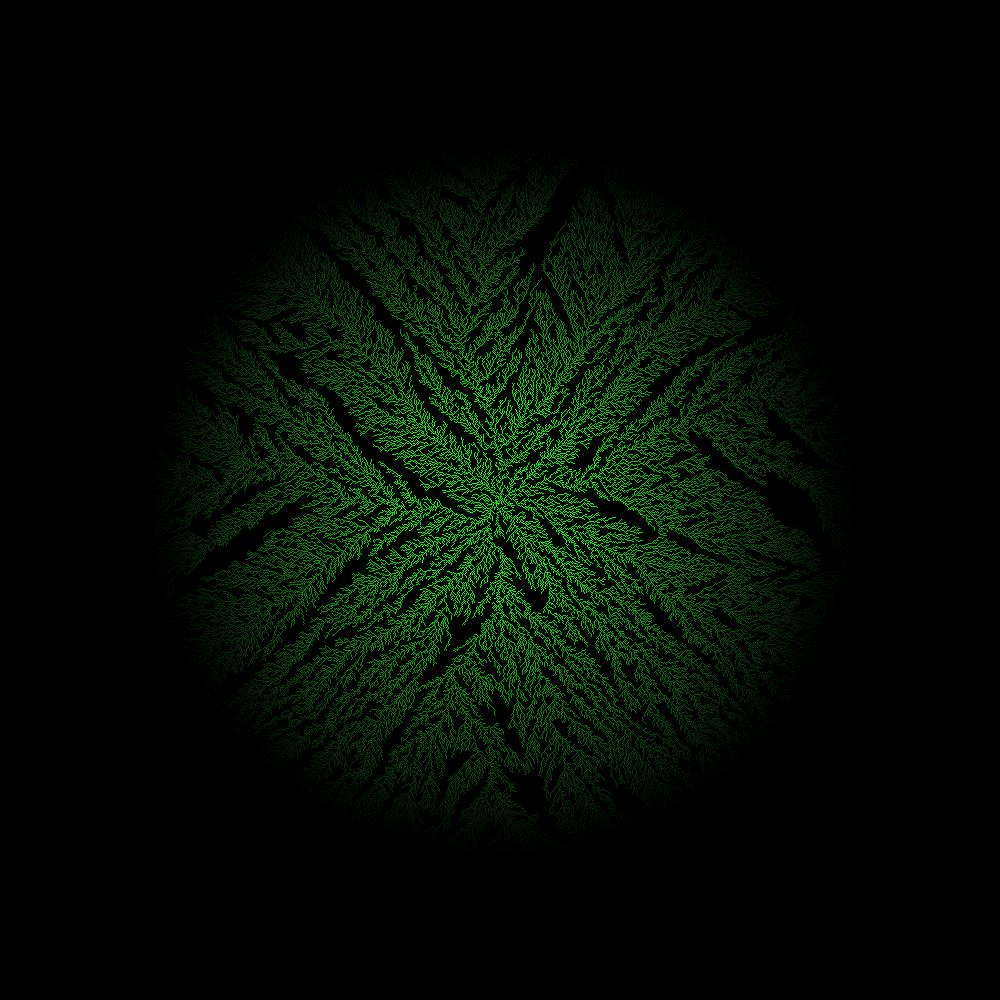
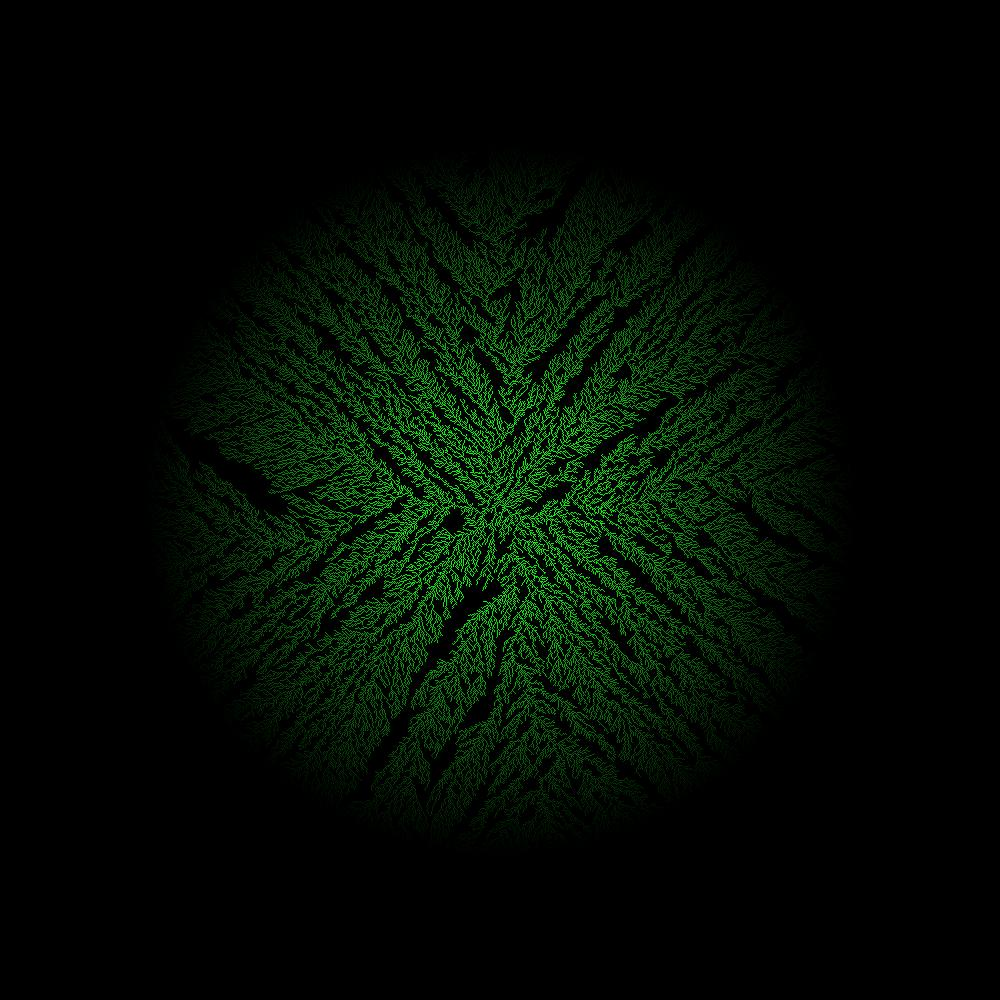
Mon 04/29/2019

Changed region(s): [[0.186, 0.186, 0.806, 0.806]]

diff --git a/08 - Pillow/Pillow Rainbow.py b/08 - Pillow/Pillow Rainbow.py
@@ -1,47 +1,47 @@
 from PIL import Image
 import random
-img = Image.new("RGB", (1000, 1000), "black")
+img = Image.new("RGB", (2000, 2000), "black")
 pixel = img.load()
 
-# for n in range(0, 1000):
-#     for j in range(0, 1000):
+# for n in range(0, 2000):
+#     for j in range(0, 2000):
 #         # a = random.randint(125, 255)
 #         # b = random.randint(0, 125)
 #         # c = random.randint(0, 125)
 #         pixel[n, j] = (int(n/4), int(j/4), 255)
 # red, green, blue = pixel[250, 250]
 
-pixel[500, 500] = (255, 255, 255)
-for point in range(0, 50000):
+pixel[1000, 1000] = (255, 255, 255)
+for point in range(0, 100000):
     for dir in range(4):
-        startval = random.randint(1, 998)
+        startval = random.randint(1, 1998)
         if dir == 0:
-            for n in range(0, 1000):
+            for n in range(0, 2000):
                 if pixel[startval, n] != (0, 0, 0) or pixel[startval + 1, n] != (0, 0, 0) or pixel[startval - 1, n] != (0, 0, 0):
                     red, green, blue = pixel[startval, n]
                     pixel[startval, n -
-                          1] = (abs(255-500+startval),abs(255-500+n),abs(255-500+startval+n))
+                          1] = (abs(255-1000+startval),abs(255-1000+n),abs(255-1000+startval+n))
                     break
         if dir == 1:
-            for n in range(0, 1000):
+            for n in range(0, 2000):
                 if pixel[n, startval] != (0, 0, 0) or pixel[n, startval + 1] != (0, 0, 0) or pixel[n, startval - 1] != (0, 0, 0):
                     red, green, blue = pixel[startval, n]
                     pixel[n - 1,
-                          startval] = (abs(255-500+startval),abs(255-500+n),abs(255-500+startval+n))
+                          startval] = (abs(255-1000+startval),abs(255-1000+n),abs(255-1000+startval+n))
                     break
         if dir == 2:
-            for n in range(0, 1000):
-                if pixel[startval, 999 - n] != (0, 0, 0) or pixel[startval + 1, 999 - n] != (0, 0, 0) or pixel[startval - 1, 999 - n] != (0, 0, 0):
+            for n in range(0, 2000):
+                if pixel[startval, 1999 - n] != (0, 0, 0) or pixel[startval + 1, 1999 - n] != (0, 0, 0) or pixel[startval - 1, 1999 - n] != (0, 0, 0):
                     red, green, blue = pixel[startval, n]
-                    pixel[startval, 1000 -
-                          n] = (abs(255-500+startval),abs(255-500+n),abs(255-500+startval+n))
+                    pixel[startval, 2000 -
+                          n] = (abs(255-1000+startval),abs(255-1000+n),abs(255-1000+startval+n))
                     break
         if dir == 3:
-            for n in range(0, 1000):
-                if pixel[999 - n, startval] != (0, 0, 0) or pixel[999 - n, startval + 1] != (0, 0, 0) or pixel[999 - n, startval - 1] != (0, 0, 0):
+            for n in range(0, 2000):
+                if pixel[1999 - n, startval] != (0, 0, 0) or pixel[1999 - n, startval + 1] != (0, 0, 0) or pixel[1999 - n, startval - 1] != (0, 0, 0):
                     red, green, blue = pixel[startval, n]
-                    pixel[1000 - n,
-                          startval] = (abs(255-500+startval),abs(255-500+n),abs(255-500+startval+n))
+                    pixel[2000 - n,
+                          startval] = (abs(255-1000+startval),abs(255-1000+n),abs(255-1000+startval+n))
                     break
 img.save("green.jpg")
 img.show()

diff --git a/00 - Other/test.py b/00 - Other/test.py
@@ -1,70 +1,3 @@
-
-sub1 = "AA AB".split(" ")
-sub2 = "AB BB".split(" ")
-sub3 = "B AA".split(" ")
-steps, initial, final = "4 AB AAAB".split(" ")
-steps = int(steps)
-subs = [sub1, sub2, sub3]
-treeofbeens = {}
-currentpos = []
-
-
-def explore(inp, s):
-    for n in range(0, len(inp) - len(subs[s][0]) + 1):
-        seg = inp[n:n + len(subs[s][0])]
-        if subs[s][0] == seg:
-            # initial = initial[:n] + subs[s][1] + initial[n + len(subs[s][0]):]
-            rule = s + 1
-            startpos = n + 1
-            print("PATH FOUND", rule, startpos)
-            available.append([rule, startpos])
-
-
-def applymod(inp, rule, startpos):
-    inp = inp[:startpos - 1] + subs[rule - 1][1] + \
-        inp[startpos - 1 + len(subs[rule - 1][0]):]
-    return inp
-
-
-bigtree = {}
-biglist = []
-level = 1
-available = []
-explore(initial, 0)
-explore(initial, 1)
-explore(initial, 2)
-for n in available:
-    biglist.append([n])
-print(biglist)
-while level < steps:
-    # GOING DOWN LEVELS
-    level += 1
-    newlist = []
-    for k in range(len(biglist)):
-        currentstr = initial
-        for move in biglist[k]:
-            currentstr = applymod(currentstr, move[0], move[1])
-        available = []
-        explore(currentstr, 0)
-        explore(currentstr, 1)
-        explore(currentstr, 2)
-        for n in available:
-            newlist.append(biglist[k] + [n])
-    biglist = newlist
-print(biglist)
-
-for path in biglist:
-    trystr = initial
-    for move in path:
-        trystr = applymod(trystr, move[0], move[1])
-        print(trystr)
-    if trystr == final:
-        print("FINALLY FOUND")
-        success = path
-        break
-# final output
-print(success)
-trystr = initial
-for n in range(steps):
-    trystr = applymod(trystr, success[n][0], success[n][1])
-    print(path[n][0], path[n][1], trystr)
+a=["a","c","l","::P"]
+b=''.join(a)
+print(b)
